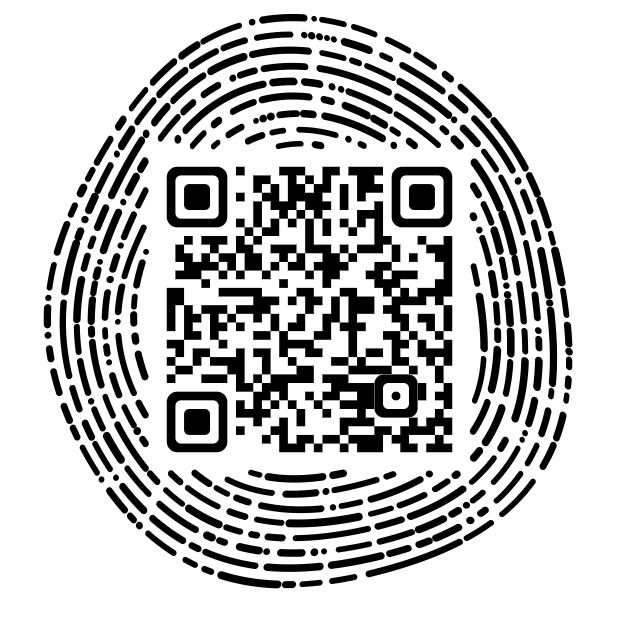
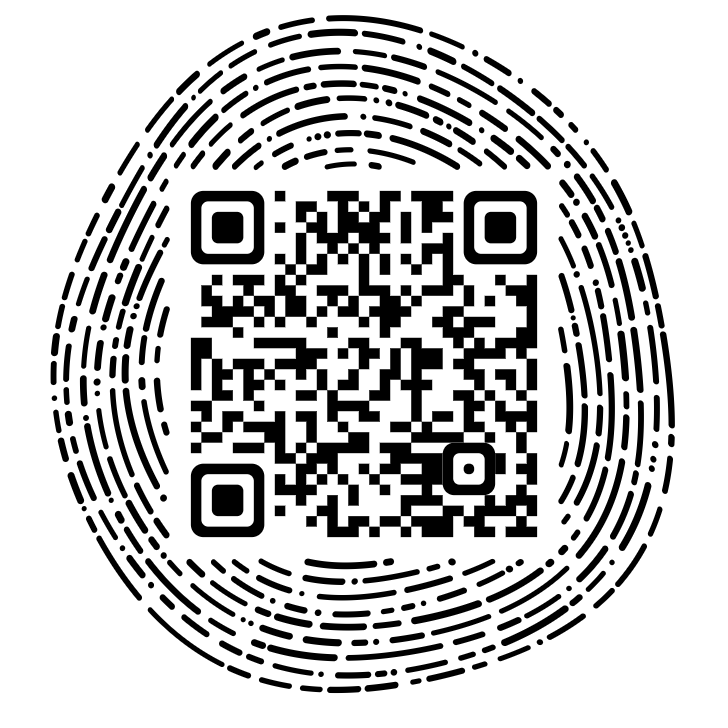
wardrobe qr new design

diff --git a/ecommerce/js/qr-print.js b/ecommerce/js/qr-print.js
@@ -8,6 +8,9 @@
   var DPI = 300;
   var BLEED_IN = 0.03;   // the emblem overhangs the slot this much on every side (hides the marker)
   var MIN_QR_IN = 2;     // smallest emblem phones read reliably from fabric
+  // The emblem's white backing is a fingerprint-shaped blob; at its narrowest it is never
+  // less than this fraction of the emblem width (0.857 measured over 3000 links).
+  var RIM_MIN = 0.85;
 
   // A slot marker pixel: the solid #FF00FF disc the designer leaves where the QR goes. A
   // little tolerance covers PNG export colour shifts; JPEG is refused upstream.
@@ -46,15 +49,17 @@
   }
 
   // slotPlacement(slot, art, box, area) -> { size_in, top_in, left_in } or { error }.
-  // The emblem is the slot plus BLEED_IN on every side, so its opaque white disc covers the
-  // marker and its blended edge; clamped to the print area.
+  // The emblem is centred on the slot and sized so the narrowest part of its white blob still
+  // reaches BLEED_IN past the slot's edge, covering the marker and its blended edge in every
+  // direction (the blob bulges past the slot elsewhere); clamped to the print area.
   function slotPlacement(slot, art, box, area) {
     var inPerPx = box.width_in / art.w;
-    var size = slot.size * inPerPx + 2 * BLEED_IN;
-    if (size < MIN_QR_IN) return { error: 'too_small', size_in: size };
+    var slotIn = slot.size * inPerPx;
+    var size = (slotIn + 2 * BLEED_IN) / RIM_MIN;
+    if (slotIn + 2 * BLEED_IN < MIN_QR_IN * RIM_MIN) return { error: 'too_small', size_in: size };
     var round = function (n) { return Math.round(n * 1000) / 1000; };
-    var left = box.left_in + slot.left * inPerPx - BLEED_IN;
-    var top = box.top_in + slot.top * inPerPx - BLEED_IN;
+    var left = box.left_in + slot.left * inPerPx + slotIn / 2 - size / 2;
+    var top = box.top_in + slot.top * inPerPx + slotIn / 2 - size / 2;
     left = Math.min(Math.max(0, left), area.w - size);
     top = Math.min(Math.max(0, top), area.h - size);
     return { size_in: round(size), top_in: round(top), left_in: round(left) };
@@ -91,7 +96,7 @@
     };
   }
 
-  var api = { DPI: DPI, BLEED_IN: BLEED_IN, MIN_QR_IN: MIN_QR_IN, isMarker: isMarker, findSlot: findSlot, fitArtBox: fitArtBox, slotPlacement: slotPlacement, printFileName: printFileName, testSheetLayout: testSheetLayout };
+  var api = { DPI: DPI, BLEED_IN: BLEED_IN, MIN_QR_IN: MIN_QR_IN, RIM_MIN: RIM_MIN, isMarker: isMarker, findSlot: findSlot, fitArtBox: fitArtBox, slotPlacement: slotPlacement, printFileName: printFileName, testSheetLayout: testSheetLayout };
   if (typeof module !== 'undefined' && module.exports) module.exports = api;
   else root.QrPrint = api;
 })(this);

diff --git a/cloudflare/worker/index.js b/cloudflare/worker/index.js
@@ -689,7 +689,7 @@
     // alignment eyes are rounded squares; broken concentric rings sit outside a KEEP-module
     // margin, like the ridges of a fingerprint.
     const KEEP = 2;                  // light margin between code and rings, in modules
-    const PITCH = 1.7, RING = 0.4;   // ring spacing and ring half-width
+    const PITCH = 1.45, RING = 0.3;  // ring spacing and ring half-width (dense, thin ridges)
 
     // Deterministic 0..1 generator seeded from the text (FNV-1a into mulberry32), so a shirt's
     // emblem is the same every time it is rendered and differs from every other shirt's.
@@ -775,13 +775,14 @@
         dashes.sort((p, q) => p[0] - q[0]);
         rings.push({ radius, dashes });
       }
-      // The white backing is an exact circle that just clears the outermost ring's widest
-      // bulge, and the image is exactly that circle's width, so every emblem's disc is the
-      // same round shape and fills a round slot edge to edge; the rings wobble inside it.
-      const lastBase = r0 + (count - 1) * PITCH;
-      const extent = lastBase * maxShape + 0.14 + RING * 1.2 + 1.2;
-      const edge = () => extent; // white backing ends here
-      return { size, half, eyes, dark, rings, shape, r0, edge, extent };
+      // The white backing follows the outermost ring (a wobbly fingerprint-shaped blob, unique
+      // per shirt). The image is exactly as wide as the blob's widest point; rimMin is the
+      // narrowest point as a fraction of that, which placement uses to cover the slot.
+      const last = rings[rings.length - 1];
+      const edge = th => last.radius(th) + RING * 1.2 + 1.2; // white backing ends here
+      let extent = 0, rimMinR = Infinity;
+      for (let i = 0; i < 720; i++) { const e = edge(i * Math.PI / 360); extent = Math.max(extent, e); rimMinR = Math.min(rimMinR, e); }
+      return { size, half, eyes, dark, rings, shape, r0, edge, extent, rimMin: rimMinR / extent };
     }
 
     // Signed distance (module units, < 0 = ink) to the code.

diff --git a/docs/superpowers/specs/2026-10-02-per-shirt-qr-design.md b/docs/superpowers/specs/2026-10-02-per-shirt-qr-design.md
@@ -216,9 +216,7 @@ and a Printful garment, which stays required: Issue 14 kept it):
   code, order, line, size and owner, marks it verified; admin scans don't count toward
   `scan_count`.
 
-**Emblem** (Issue 9, approved): the white disc's outer edge is an exact circle on every
-emblem, so it fills a round slot edge to edge; the rings inside keep their per-customer
-wobble. This changes the rim of the user's reference image, whose outer edge wobbles.
+**Emblem** (Issue 9 reversed by the user 2026-10-12, matching their reference image): the white backing is a fingerprint-shaped blob that follows the outermost ring, unique per shirt; rings are thin and dense (pitch 1.45, half-width 0.3 modules). The blob is never narrower than 85% of the emblem width (`RIM_MIN`, 0.857 measured over 3000 links), so the placer centres the emblem on the slot and makes it (slot + 2 x 0.03 in) / 0.85 wide: its narrowest part still covers the #FF00FF marker, and it bulges past the slot elsewhere.
 
 ## Customer UI
 
